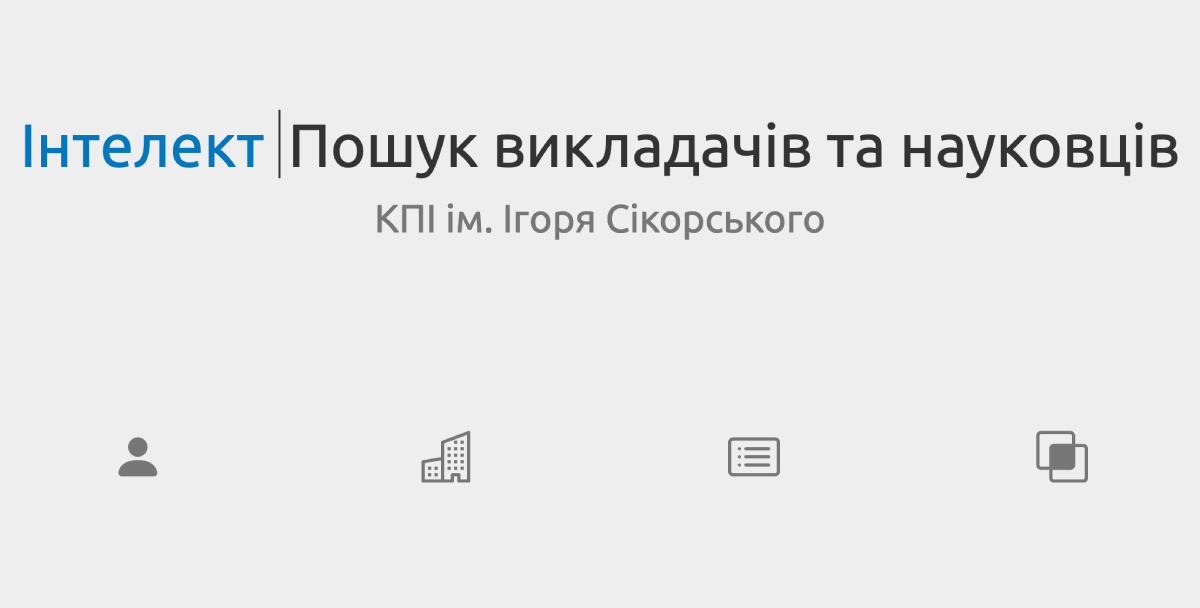
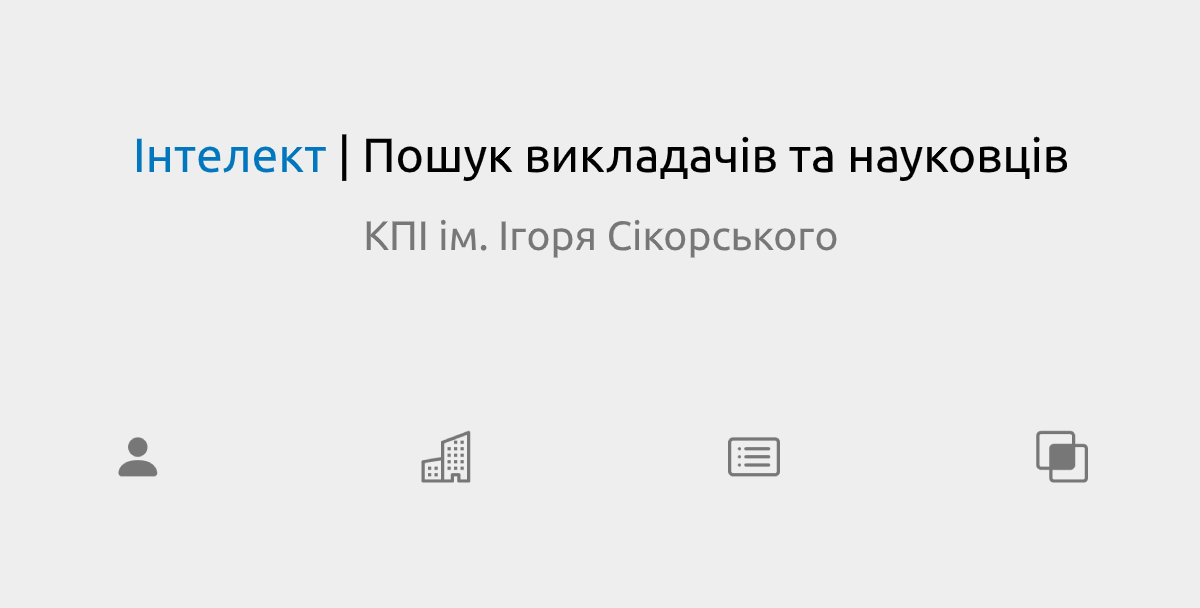
update FB image

Changed region(s): [[0.0, 0.1875, 0.9867, 0.4375]]

diff --git a/src/public/index.html b/src/public/index.html
@@ -12,7 +12,7 @@
     gtag('config', 'UA-79442229-3');
   </script>
 
-  <title>Інтеллект - КПІ ім. Ігоря Сікорського</title>
+  <title>Інтеллект | КПІ ім. Ігоря Сікорського</title>
 
   <meta charset="utf-8" />
 
@@ -29,7 +29,7 @@
 
   <meta property="og:title" content="Інтелект | КПІ ім. Ігоря Сікорського" />
   <meta property="og:type" content="website" />
-  <meta property="og:image" content="https://intellect.kpi.ua/images/fb-image.png" />
+  <meta property="og:image" content="https://intellect.kpi.ua/images/fb-image.png?v=20200608105700" />
   <meta property="og:description" content="Проект об′єднує вчених, викладачів, інженерів та аспірантів університету, які займаються інтелектуальною творчою діяльністю, проводять фундаментальні та прикладні наукові дослідження, впроваджують отримані результати в виробництво, займаються навчальною, методичною і організаційною роботою." />
   <meta property="og:url" content="https://intellect.kpi.ua" />
 
